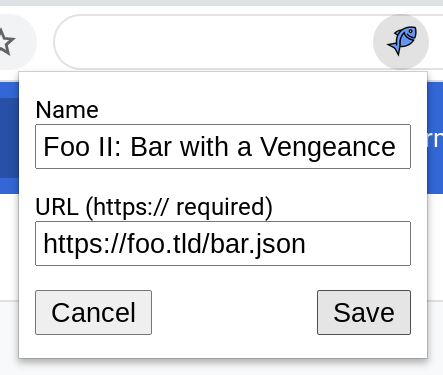
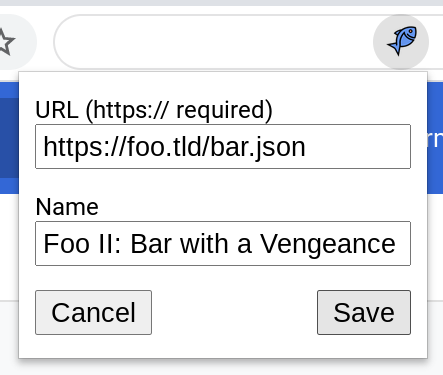
Auto-populate name field in custom config dialog

diff --git a/extension/popup.js b/extension/popup.js
@@ -42,9 +42,9 @@ const editForm = document.getElementById('editForm');
 /** @type {!HTMLInputElement} */
 const editId = document.getElementById('editId');
 /** @type {!HTMLInputElement} */
-const editName = document.getElementById('editName');
-/** @type {!HTMLInputElement} */
 const editUrl = document.getElementById('editUrl');
+/** @type {!HTMLInputElement} */
+const editName = document.getElementById('editName');
 /** @type {!HTMLButtonElement} */
 const cancelEditsButton = document.getElementById('cancelEditsButton');
 /** @type {!HTMLButtonElement} */
@@ -207,6 +207,19 @@ function createNewOptionElement(config) {
 }
 
 /**
+ * @param {string} url
+ * @return {UpFishConfig}
+ */
+async function fetchConfig(url) {
+  const response = await fetch(url);
+  if (!response.ok) {
+    throw new Error('Failed to load JSON config!');
+  }
+  const configJson = await response.json();
+  return configJson;
+}
+
+/**
  * Select the specified config.
  *
  * @param {UpFishConfigOption} config
@@ -226,11 +239,7 @@ async function selectOption(config, div) {
   selectionElement.open = false;
 
   if (config.url) {
-    const response = await fetch(config.url);
-    if (!response.ok) {
-      throw new Error('Failed to load JSON config!');
-    }
-    const configJson = await response.json();
+    const configJson = await fetchConfig(config.url);
 
     chrome.tabs.sendMessage(tab.id, {
       type: 'UpFishConfig',
@@ -301,6 +310,25 @@ async function deleteOption(config, div) {
  */
 function checkFormValidity() {
   saveEditsButton.disabled = !editForm.checkValidity();
+}
+
+/**
+ * Load a config name from the config contents.
+ */
+async function loadNameFromUrl() {
+  if (editName.value != '') {
+    return;
+  }
+
+  editForm.checkValidity();
+  if (!editUrl.validity.valid) {
+    return;
+  }
+
+  const url = editUrl.value;
+  const configJson = await fetchConfig(editUrl.value);
+  editName.value = configJson.name;
+  checkFormValidity();
 }
 
 /**
@@ -429,10 +457,11 @@ async function loadCurrentTabStatus() {
   });
 
   // Check validity of the form on every change.
-  editName.addEventListener('input', checkFormValidity);
-  editName.addEventListener('change', checkFormValidity);
   editUrl.addEventListener('input', checkFormValidity);
   editUrl.addEventListener('change', checkFormValidity);
+  editName.addEventListener('input', checkFormValidity);
+  editName.addEventListener('change', checkFormValidity);
+  editName.addEventListener('focus', loadNameFromUrl);
 
   // Go back to the selection view on cancel.
   cancelEditsButton.addEventListener('click', openSelectionView);

diff --git a/extension/popup.html b/extension/popup.html
@@ -37,12 +37,12 @@
       <form id="editForm">
         <input id="editId" type="hidden" value="foo" />
         <div>
-          <label for="editName">Name</label>
-          <input id="editName" type="text" required />
+          <label for="editUrl">URL (https:// required)</label>
+          <input id="editUrl" type="text" required pattern="^https?://.+" />
         </div>
         <div>
-          <label for="editUrl">URL (https:// required)</label>
-          <input id="editUrl" type="text" required pattern="^https://.+" />
+          <label for="editName">Name</label>
+          <input id="editName" type="text" required />
         </div>
         <div id="editActions">
           <!-- type="button" indicates not to "submit" the form" -->

diff --git a/docs/config.md b/docs/config.md
@@ -258,8 +258,9 @@ on the cloud storage provider of your choice, or even on
 To add a custom config to UpFish, open the extension and click the "Add" button.
 ![The "add" button](custom-add.png)
 
-Next, fill in a name and the URL of the config file (from your local web server
-or from a more permanent location), then click "Save".
+Next, fill in the URL of the config file (from your local web server or from a
+more permanent location).  If the config can be loaded, the name field will be
+automatically populated from the config file.  Then click "Save".
 ![The "edit" dialog](custom-edit.png)
 
 Your custom config will now show up in the list of configs.
